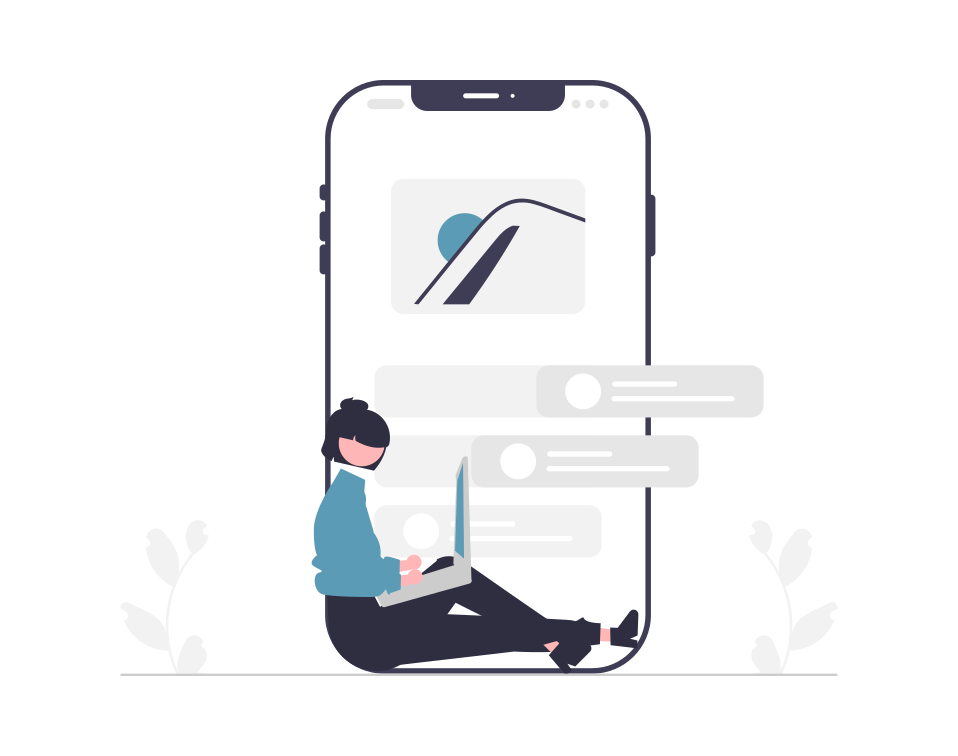
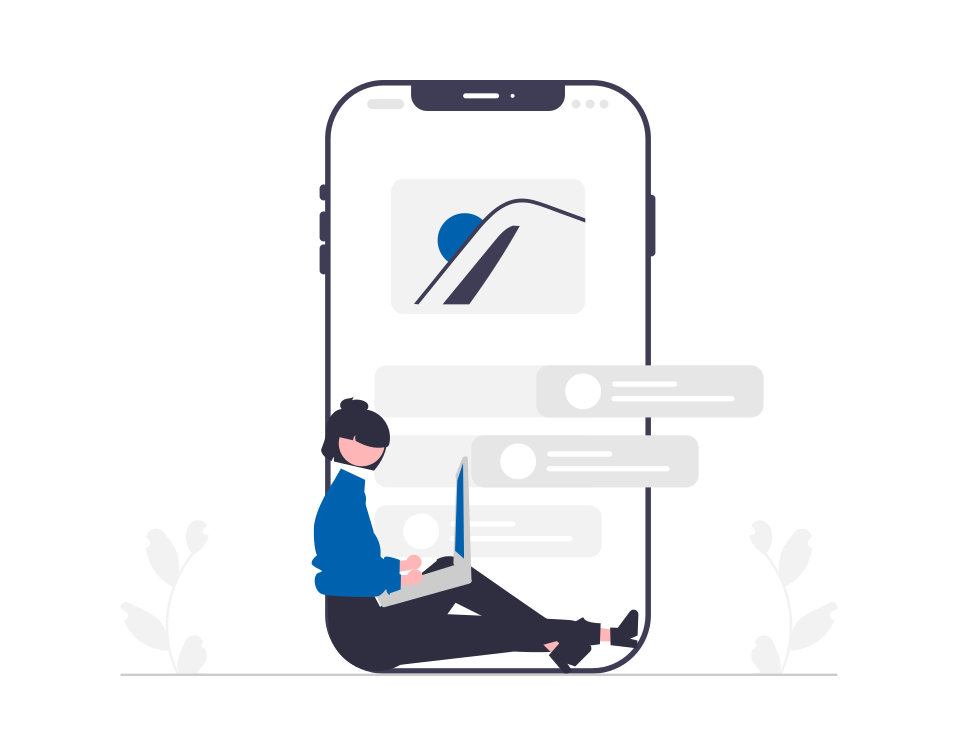
Fix: alteração nas cores e no placeholder do cpf

Changed region(s): [[0.3027, 0.6085, 0.4238, 0.791], [0.4541, 0.6085, 0.4843, 0.7302], [0.4541, 0.2738, 0.5146, 0.3651]]

diff --git a/registro.html b/registro.html
@@ -19,7 +19,7 @@
                         
                         <input type="text" placeholder="Nome Completo" class="registro-input">
                         <input type="email" placeholder="E-mail" class="registro-input">
-                        <input type="text" placeholder="CPF (Somente números)" class="registro-input">
+                        <input type="text" placeholder="CPF ou CNS (Somente números)" class="registro-input">
                         <input type="password" placeholder="Senha" class="registro-input">
                         <input type="password" placeholder="Confirmar Senha" class="registro-input">
         

diff --git a/estilo.css b/estilo.css
@@ -123,7 +123,7 @@ footer a:hover{
 #bloco-registro {
 	display: flex;
 	flex-direction: column;
-	background-color: #5B9BB5;
+	background-color: #0062AE;
 	width: 720px;
 	height: 100vh;
 	align-items: center;
@@ -138,7 +138,7 @@ footer a:hover{
 
 #box-form-registro {
 	display: flex;
-	background-color: #5B9BB5;
+	background-color: #0062AE;
 	padding: 0;
 	align-items: center;
 	justify-content: center;
